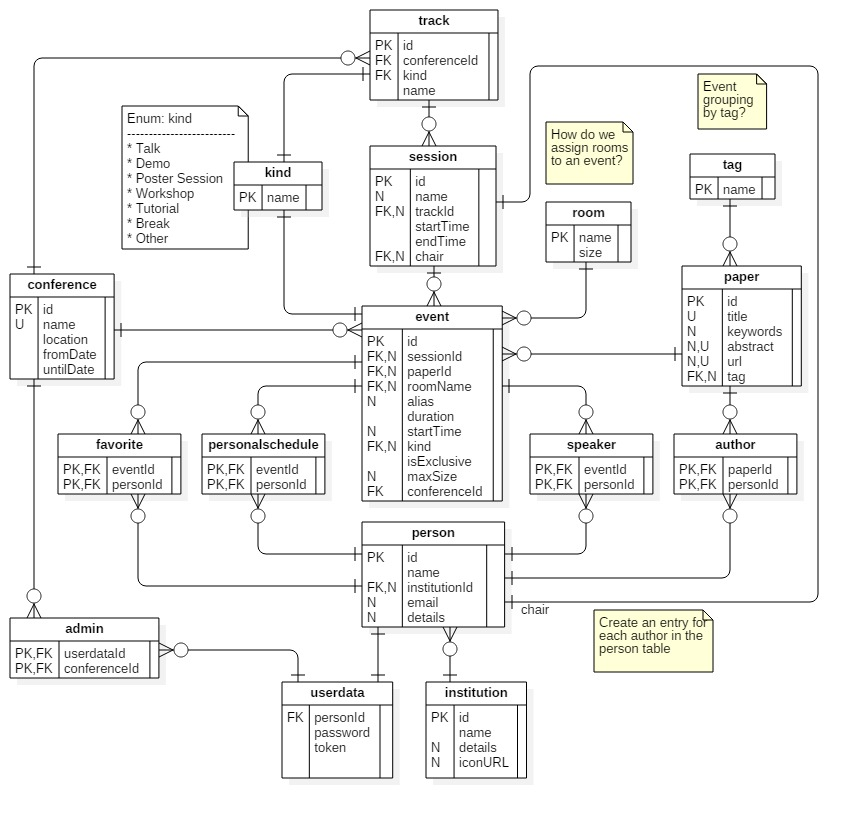
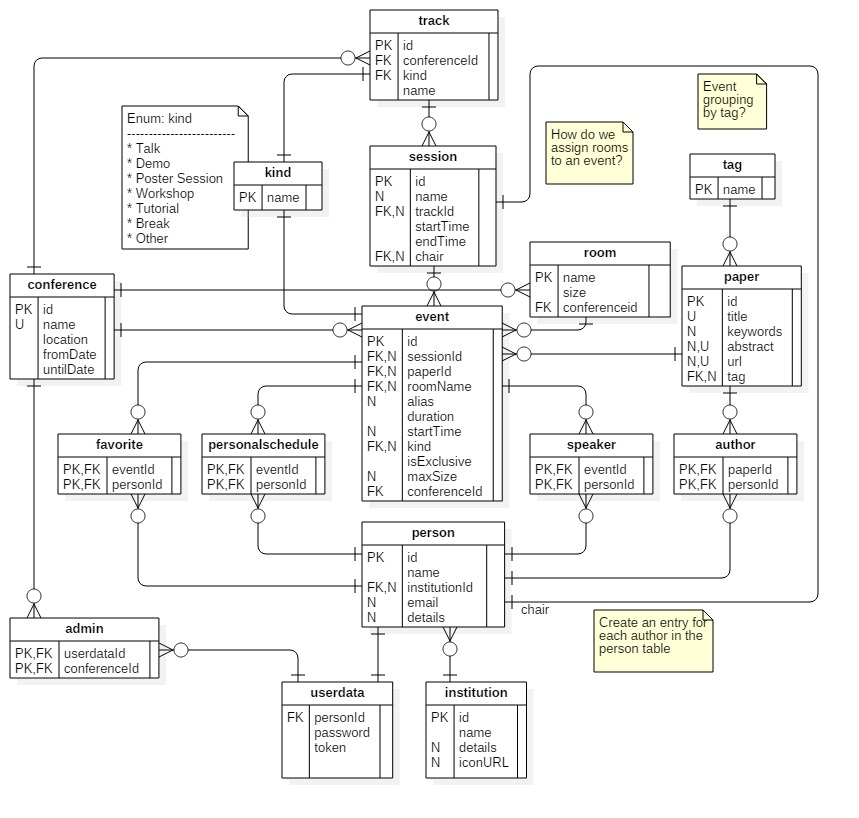
added conference id to room

Changed region(s): [[0.5751, 0.2445, 0.787, 0.4279]]

diff --git a/backend/model/room.js b/backend/model/room.js
@@ -9,6 +9,16 @@ module.exports = function(sequelize, DataTypes) {
     size: {
       type: DataTypes.INTEGER,
       allowNull: false
+    },
+    conferenceid: {
+      type: DataTypes.INTEGER,
+      allowNull: false,
+      references: {
+        model: 'conference',
+        key: 'id',
+        onDelete: 'CASCADE',
+        onUpdate: 'CASCADE',
+      }
     }
   });
   return Room;
